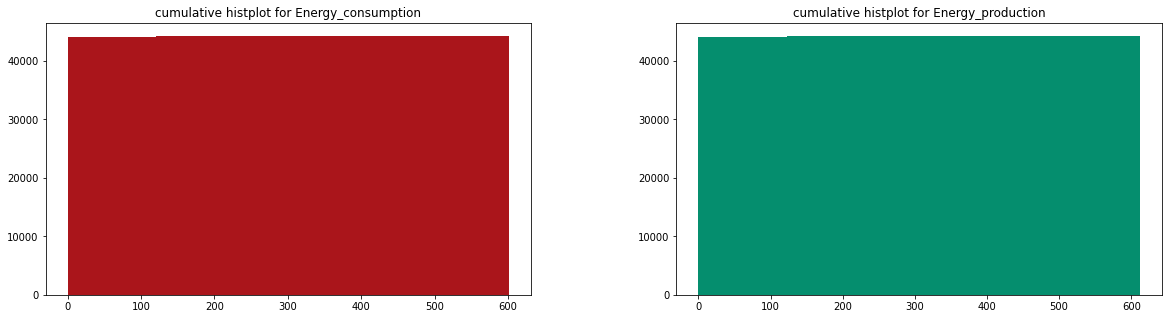
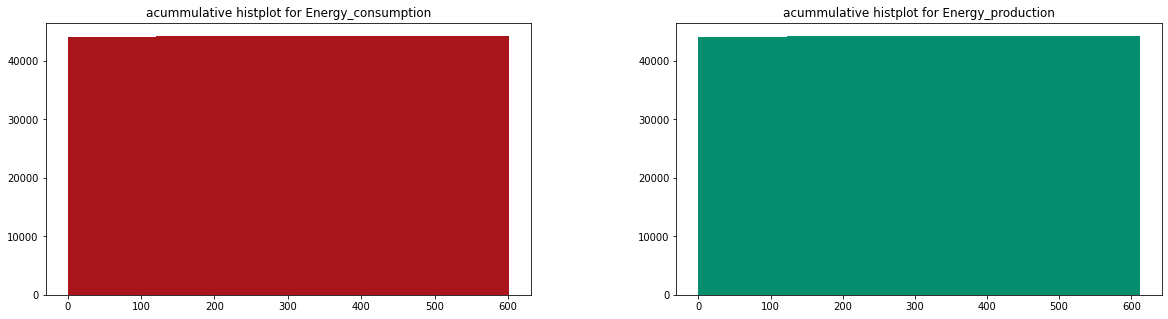
improvements

Changed region(s): [[0.6473, 0.0282, 0.9247, 0.0564], [0.1233, 0.0282, 0.3699, 0.0564]]

diff --git a/co2_eda.html b/co2_eda.html
@@ -116,15 +116,26 @@
 						Finally, we set the next steps to follow:
 						<ol>
 							<li>we should convert Year into a datetime variable</li>
-							</li>From the energy_consumption column are null values, we need to identify them and decide if we remove or replace them.</li>
-							<li>The Energy_consumption minimum is negative so we have to look up if this has sense. We also have to discover if 25% of the data that is accumulated till 0 makes sense too.</li>
-							<li>In Energy production happens the same as in Energy_consumption, however for 50 and 75 percentiles it can make sense the country has a negative production if these countries do not produce energy enough and they have to import it, being its balance negative. In this case, the variable would be a net balance and we beleive is not the case, we should check it out.</li>
-							<li>The maximum value for GDP is very high, we should check out this is not an outlier, and make the same for the minimum. Wrapping up, to check outliers.</li>
-							<li>Intensity per capita and GDP have also possible outliers, check them out too, and in general.</li>
-							<li>On co2 emissions we see there are negative values, Does this make sense?, and the 50% of values are cumulated until 0, Does this make sense too?. However, the maximum value is too high resulting in a high standar deviation, This also make sense?.</li>
+							<li>From the energy_consumption column are null values, we need to identify them and decide if we remove or replace them.</li>
+							<li>Negative Numbers:
+								<dl>
+									<dt>-	The Energy_consumption minimum is negative so we have to look up if this has sense. We also have to discover 
+										if 25% of the data that is accumulated till 0 makes sense too.</dt>
+									<dt>-	In Energy production happens the same as in Energy_consumption, however for 50 and 75 percentiles it can make sense 
+										the country has a negative production if these countries do not produce energy enough and they have to import it, 
+										being its balance negative. In this case, the variable would be a net balance and we beleive is not the case, we should 
+										check it out.</dt>
+									<dt>-	On co2 emissions we see there are negative values, Does this make sense?, and the 50% of values are acummulated until 0, 
+										Does this make sense too?. However, the maximum value is too high resulting in a high standar deviation, This also make sense?.</dt>
+								</dl>		
+							</li>
+							<li>The maximum value for GDP is very high, we should check out this is not an outlier, and make the same for the minimum.
+								Wrapping up, to check outliers.Intensity per capita and GDP have also possible outliers, check them out too, and in general.</li>
 						</ol>
+						<h4>1. Convert Year into datetime</h4>
 						First, let's convert Year to datetime:
 						<pre><code>df.Year = pd.to_datetime(df.Year,format="%Y")</code></pre>
+						<h4>2. Null Values</h4>
 						Then let's see what percentage of null values we have in each feature:
 						<img src="images/eda_images/co2_deda_nulos.png" width="600" height="250"/>
 						<h5>Energy_consumption nulls</h5>
@@ -197,7 +208,8 @@
 						production and the rest of the countries are concentrated around 0 and 9.86. In this way, 
 						that 25 percent accumulated up to 0 makes sense. let's take a closer look to the biggest ones:
 						<img src="images/eda_images/co2_eda_15consum.png" width="600" height="300"/>
-						<h4>Negative Numbers</h4>
+						<h4>3. Negative Numbers</h4>
+						<h5>Energy Consumption Negative Numbers</h5>
 						The first thing we are going to check is the types of energy related with negative numbers, for that we
 						make:
 						<pre><code>menos_cero = df[df.Energy_consumption < 0] 
@@ -209,7 +221,7 @@ array(['renewables_n_other'], dtype=object)
 						We see that all negative energy consumption is due to the type of renewable generation, and it makes sense,
 						since being renewable, they do not consume energy for its production but rather contribute it to the system 
 						and hence the data is negative. In this sense, we keep the negative data in the dataframe.
-						<h4>Energy production negative numbers</h4>
+						<h5>Energy production negative numbers</h5>
 						In energy production the same thing happens as in Energy_consumption, however for the 50th and 75th percentiles 
 						it may make sense for the country to have a negative production if these do not produce enough energy and have to 
 						import it from abroad and their balance is negative. In that case, the variable would be a net balance and I think 
@@ -226,7 +238,23 @@ todos los valores corresponden a Qatar con un total de 6 valores
 						This is due, as we have been able to read, to the fact that Qatar is the largest gas exporter in the world and has never 
 						needed to worry about renewables, so it began to worry about this around the year 2019.
 						<pre><code>df = df.drop(menos_cero_prod.index)</code></pre>
-						<h4>The maximum GDP is very high, confirm that it is not an outlier and do the same for the minimum. Check the outliers in general.</h4>
+						<h5>In co2 emissions we see that the minimum is negative, does it make sense?. By the other hand, 50% of the values acummulate 
+							until 0 as well, does that make sense?. However, the maximum is very high, which gives us a very high standard deviation as well, 
+							does that make sense?</h4>
+							let's see how many negative data we have in the co2_emission variable:
+							<pre><code>emisiones_negativas = df[df.CO2_emission < 0]
+	len(emisiones_negativas)
+	
+	OUTPUT:
+	3
+							</code></pre>
+							<img src="images/eda_images/co2_eda_3negatives.png" width="600" height="100"/>
+							We have three data, corresponding to the coal of Singapore, in which it is indicated that the CO2 emissions are negative. Given the 
+							years to which they correspond, and that in those years there was no energy production, only consumption, it could be interpreted as 
+							that instead of emitting, they absorbed co2 from the atmosphere, which for us does not make sense and, since there are only 3 data, 
+							we think it would be good to remove them from the dataframe.
+						<h4>4. Outliers</h4>
+						<h5>The maximum GDP is very high, confirm that it is not an outlier and do the same for the minimum. Check the outliers in general.</h5>
 						For this part first we filter our features choosing only the numeric ones:
 						<pre><code>df_continuas = df.select_dtypes(exclude=["object","datetime64"])</code></pre>
 						then, we plot them using boxplots:
@@ -240,22 +268,7 @@ todos los valores corresponden a Qatar con un total de 6 valores
 						world largest populated countries:
 						<img src="images/eda_images/co2_eda_5_largestpop.png" width="600" height="300"/>
 						We see how the majority of the population is concentrated in China, India, the United States and Indonesia, and hence that boxplot, 
-						we cannot put them as outliers.
-						<h4>7. In co2 emissions we see that the minimum is negative, does it make sense?. By the other hand, 50% of the values acummulate 
-						until 0 as well, does that make sense?. However, the maximum is very high, which gives us a very high standard deviation as well, 
-						does that make sense?</h4>
-						let's see how many negative data we have in the co2_emission variable:
-						<pre><code>emisiones_negativas = df[df.CO2_emission < 0]
-len(emisiones_negativas)
-
-OUTPUT:
-3
-						</code></pre>
-						<img src="images/eda_images/co2_eda_3negatives.png" width="600" height="100"/>
-						We have three data, corresponding to the coal of Singapore, in which it is indicated that the CO2 emissions are negative. Given the 
-						years to which they correspond, and that in those years there was no energy production, only consumption, it could be interpreted as 
-						that instead of emitting, they absorbed co2 from the atmosphere, which for us does not make sense and, since there are only 3 data, 
-						we think it would be good to remove them from the dataframe.
+						we cannot put them as outliers.<hr>
 						Let's take a look at how much data we have left divided by type of energy and year:
 						<img src="images/eda_images/co2_eda_datacounting.png" width="600" height="200"/>
 						In the next graph we can see the same but each column give us the total amount of data by year in a clearer way:
